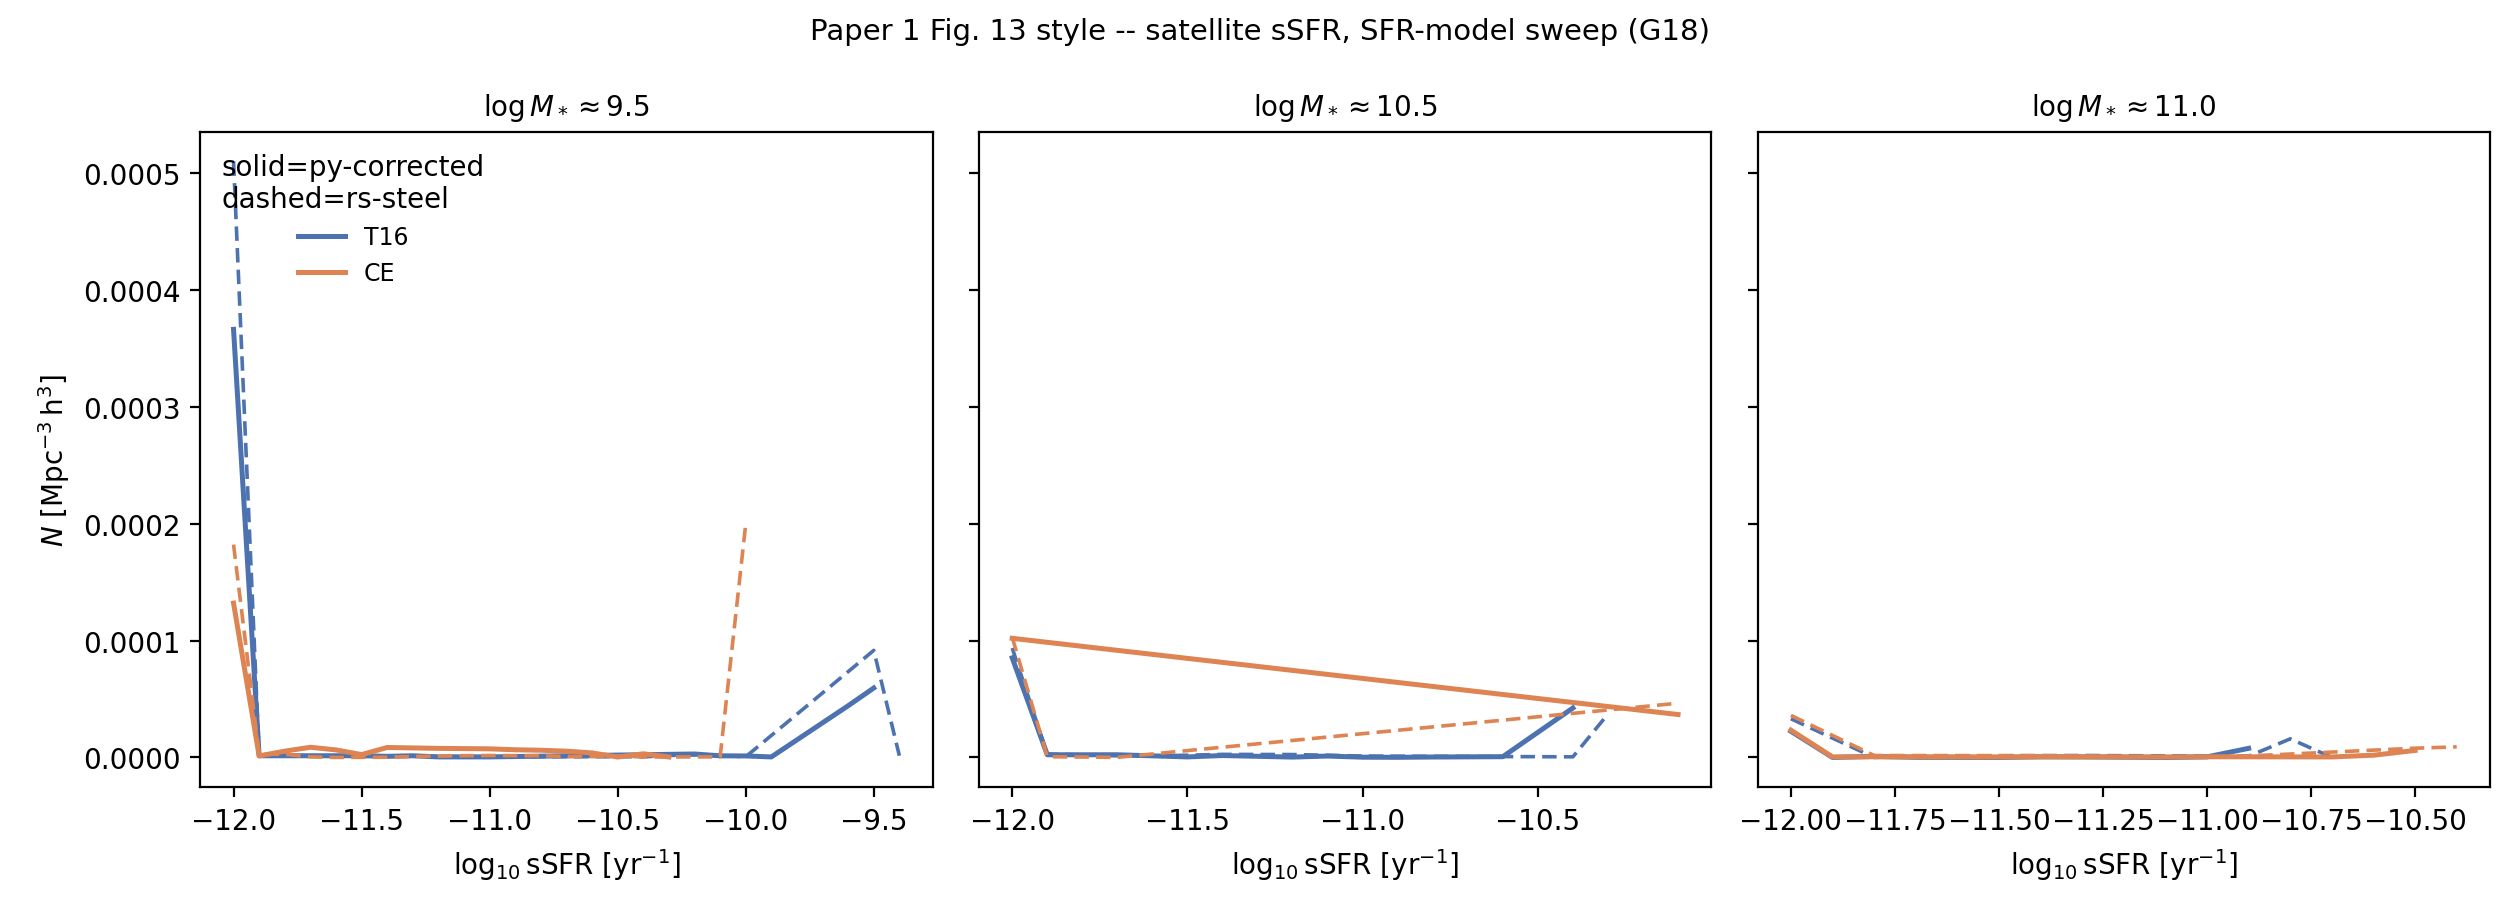
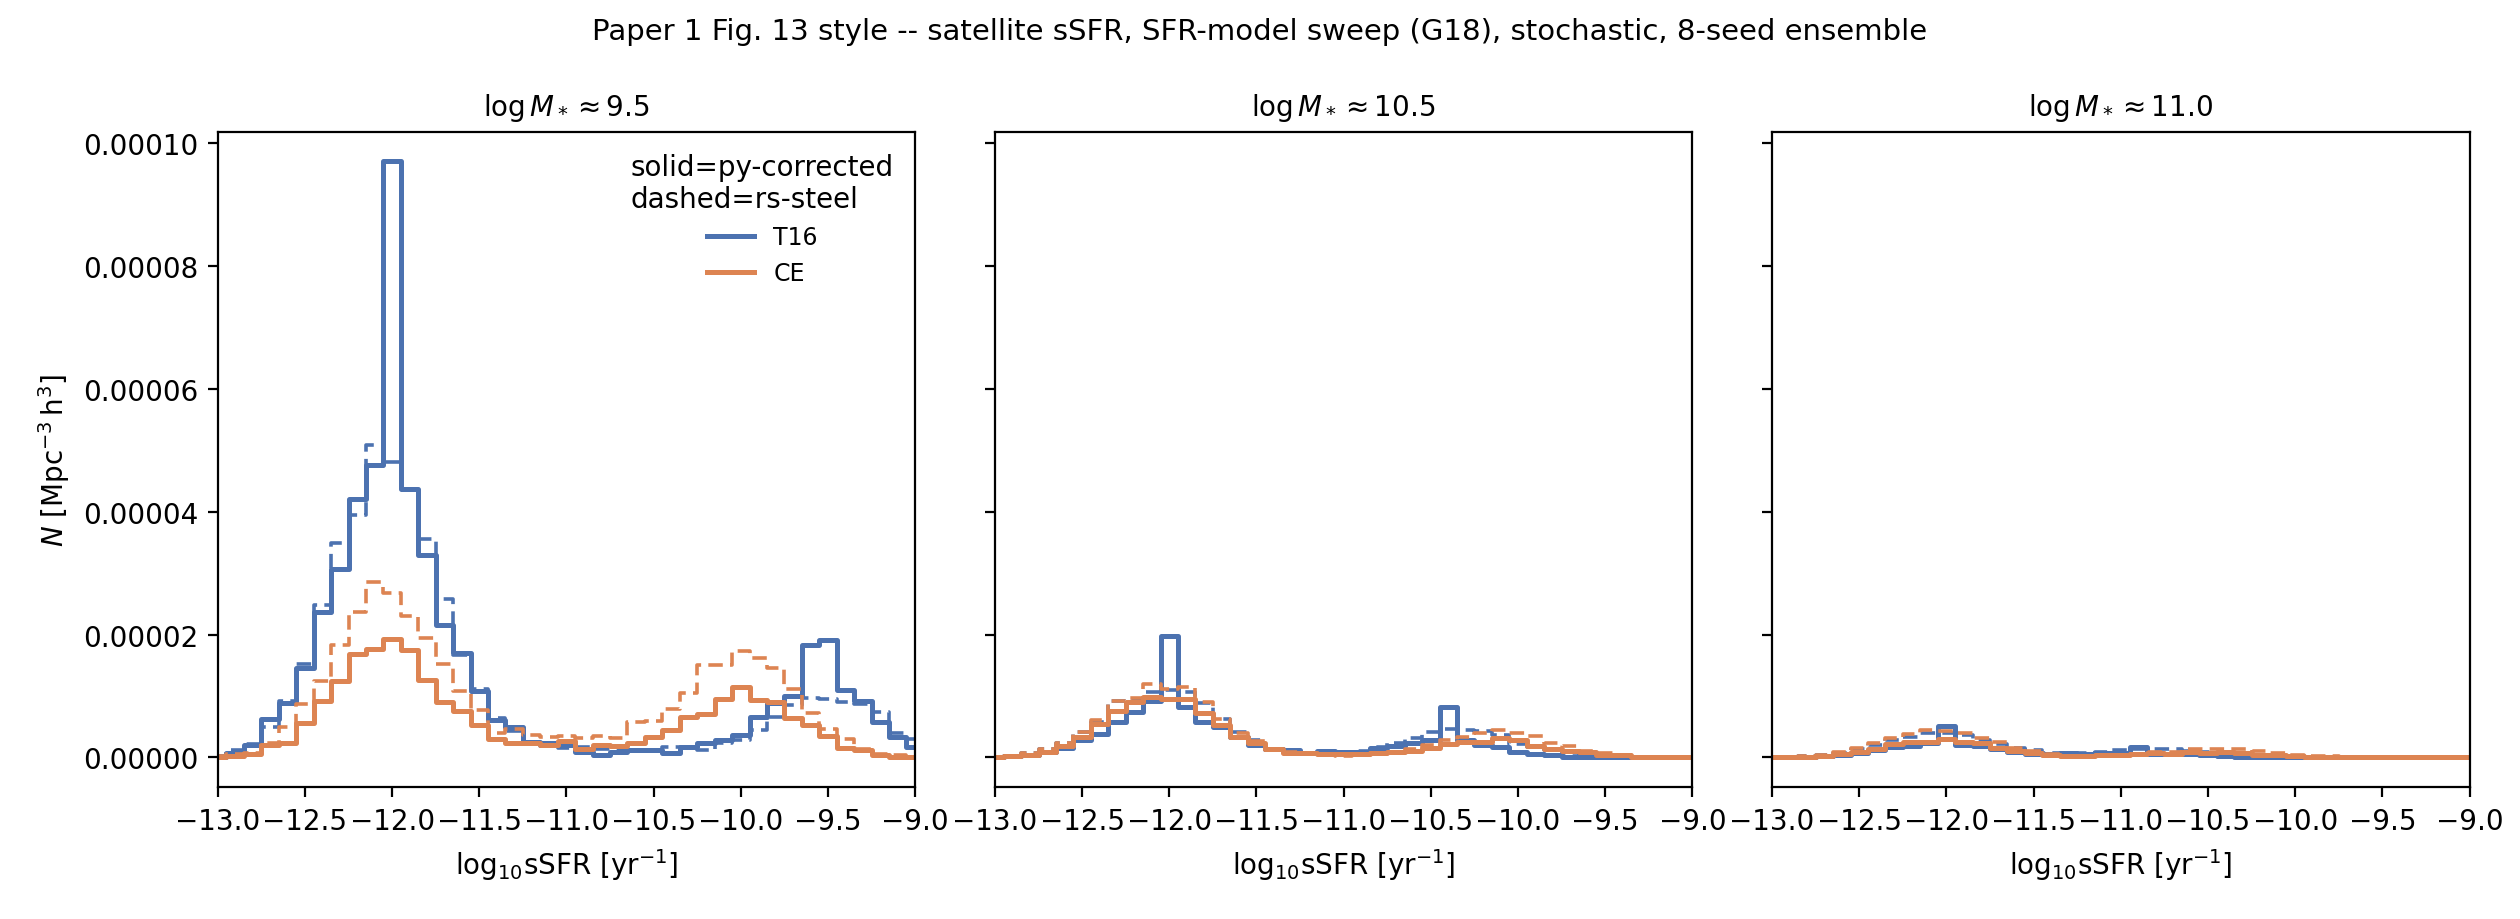
Regenerate Paper 1 Fig. 13 sSFR sweep with the stochastic-mode fix
Confirms the suspicion flagged in dce275e: Paper1_Fig13_sSFRSweep.png
had the identical defect as Paper 2 Fig. 9 (deterministic mode piling
satellites onto the gas-depletion sSFR floor instead of showing a real
distribution). Rebuilt with the rewritten ssfr_sfr_sweep.py over
8-seed stochastic ensembles of both p1-sf-strip-t16 and p1-sf-strip-ce
(log Mh = 11.0-14.5). Both SFR models now show the expected two-peak
quenched/star-forming shape at the two lower mass columns, with tight
py-corrected/rs-steel agreement; the highest mass column stays thin
for the same grid-extent reason documented for Fig. 9.

diff --git a/docs/RESULTS_REPRODUCTION.md b/docs/RESULTS_REPRODUCTION.md
@@ -117,7 +117,7 @@ Until each of these is rebuilt, the affected rows below are marked
 | 10 | SSMF, frozen model, f_tdyn=0.5/1.0/2.5, vs SDSS | run + data | **done** (`Paper1_Fig10_TdynSweep.png`: correct frozen config, all 3 f_tdyn values, tight agreement; SDSS overlay omitted, G19_SE not G18) |
 | 11 | Satellite distributions, frozen model, f_tdyn=0.5/1.0/2.5, 3 mass cuts x 2 rows | run + data | **done** (`Paper1_Fig11_TdynSweep_Grid.png`: full 3x2 grid; same fractional-row noise caveat as Fig. 9; SDSS overlay omitted, G19_SE not G18) |
 | 12 | SSMF, T16 vs CE SFR, vs SDSS | run + data | **done** (`Paper1_Fig12_SFRModelSweep.png`: real CE (`TomczakFormSfr::ce()`) vs T16, G18 preset, tight py/rust agreement; SDSS overlay omitted) |
-| 13 | sSFR distributions, T16 vs CE, vs SDSS | run + data | **likely has the same deterministic-mode defect as Paper 2 Fig. 9, not yet rebuilt** (`Paper1_Fig13_sSFRSweep.png`: real CE vs T16, G18; SDSS overlay omitted; this was previously logged as "done" with a "small-number-statistics" caveat, but that assessment predates the 2026-08-13 finding that this whole class of sSFR-distribution figure needs stochastic mode -- deterministic mode collapses satellites onto the gas-depletion floor rather than producing genuine small-number noise. `ssfr_sfr_sweep.py` also has the same masked-line-instead-of-histogram plotting bug fixed in `ssfr_plot.py`. Needs the same treatment; not yet done.) |
+| 13 | sSFR distributions, T16 vs CE, vs SDSS | run + data | **FIXED 2026-08-13** (`Paper1_Fig13_sSFRSweep.png`: same fix as Paper 2 Fig. 9 -- `ssfr_sfr_sweep.py` rewritten for multi-seed stochastic ensembles and a real step histogram, rebuilt with 8-seed stochastic runs of both `p1-sf-strip-t16` and `p1-sf-strip-ce` (`log Mh = 11.0-14.5`, same grid tradeoff as Fig. 9). Real CE vs T16, G18 preset; both now show the expected quenched/star-forming bimodal shape at the two lower mass columns (log M*≈9.5, 10.5), tight py/rust agreement; the log M*≈11.0 column is thin for the same grid-extent reason as Fig. 9's third panel. SDSS overlay omitted.) |
 | 14 | SSMF, frozen/SF/SF+strip, vs SDSS | run + data | **done** (`Paper1_Fig14_ConfigSweep.png`: all 3 lines -- frozen, CE SF-only, CE SF+stripping -- G18 preset, tight agreement; SDSS overlay omitted) |
 | 15 | Satellite distributions, frozen/SF/SF+strip, vs SDSS | run + data | **done** (`Paper1_Fig15_ConfigSweep_Grid.png`: all 3 lines, full 3x2 grid, G18/CE; SDSS overlay omitted) |
 
